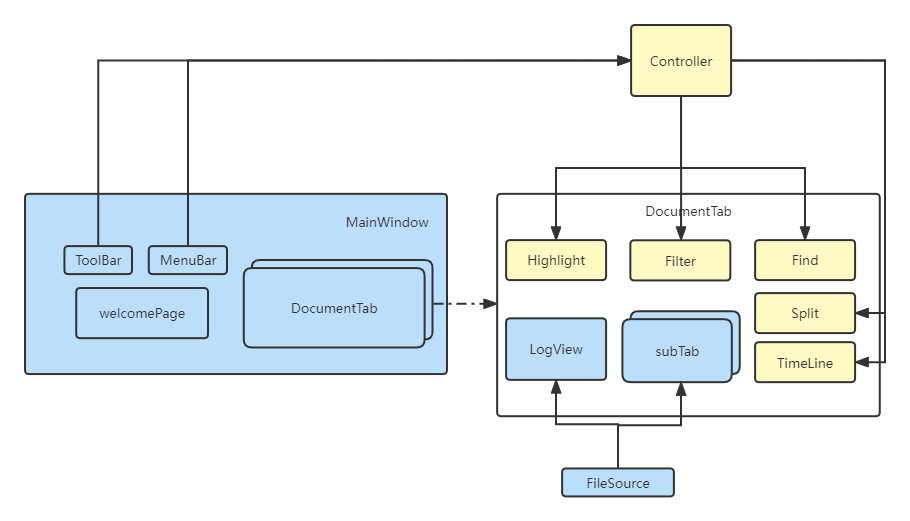
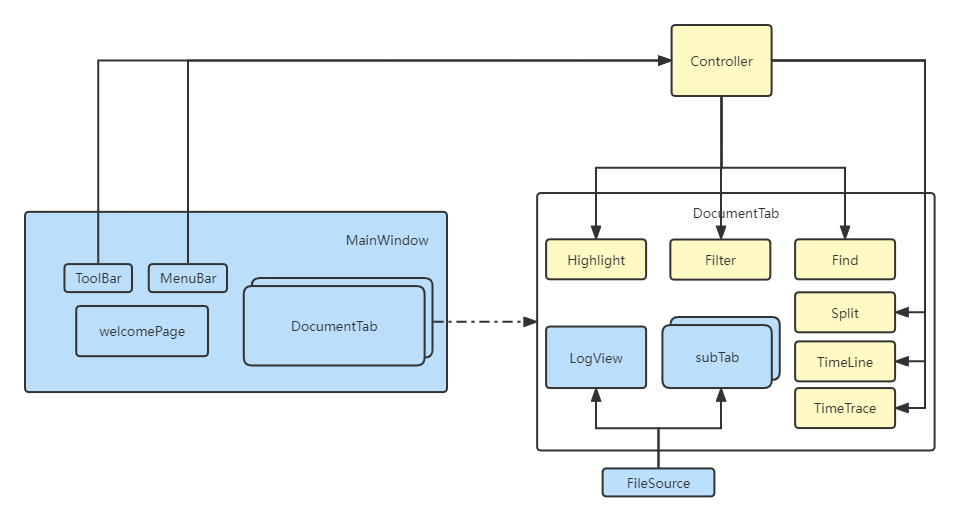
update slides

Changed region(s): [[0.0, 0.0307, 0.9846, 0.952]]

diff --git a/slides/slides.html b/slides/slides.html
@@ -68,6 +68,14 @@
     <h1>功能简介</h1>
 
   </section>
+  <section id="背景" class="slide level2">
+    <h2>任务背景</h2>
+
+    <ul>
+      <p>目前在排查问题时，由于多线程下业务繁多，从而在定位问题时，很难跟进上下文。尽管业务已有traceId,但是串联起来还是比较耗时。因而需要约定日志打印方式，以及实现相应的日志查看工具。</p>
+     <img width="600px" style="padding-left: 150px;" src="image/slides/log.png">
+    </ul>
+  </section> 
   <section id="界面布局" class="slide level2">
     <h2>界面布局</h2>
     <ul>
@@ -166,6 +174,22 @@
       </li>
       <li>导出当前时间线</li>
     </ul>
+  </section>
+  <section id="时间线功能拓展" class="slide level2">
+    <h2>时间线分析拓展</h2>
+    <ul>
+      <li>基于单时间线分析,实现多时间线追踪功能</li>
+      <ul>
+        <li>更广泛的适用性: 多线程日志分析</li>
+        <li>保留了单时间线的高亮动画,删除定位行功能</li>
+        <li>与过滤功能共同使用,事半功倍</li>
+      </ul>
+     
+    </ul>
+    <table>
+      <td><img width="500px" src="image/slides/trace1.png"></td>
+      <td><img width="400px"src="image/slides/trace2.png"></td>
+    </table>
   </section>
   <section id="番外功能" class="slide level2">
     <h2>番外功能</h2>
@@ -636,8 +660,9 @@ int ILog::createChild(SearchArg arg, QString id)
         <ul>
           <li><strong>TimeHead</strong>用来显示节点位置及时间信息</li>
           <li><strong>TimeBody</strong>用来显示TimeNode的日志内容</li>
-          <img width="600px" src="image/slides/timeline1.png">
+          <img width="400px" src="image/slides/timeline1.png" style="margin-bottom: 0px;">
         </ul>
+      <li>TimeTrace = List&lt;string&gt; + List&lt;timeline&gt;</li>
     </ul>
 
   </section>
@@ -678,7 +703,8 @@ void DocumentTab::deepEmphasizeLine(const shared_ptr<ILog> &log, int line, const
 
       </script></code></pre>  
     
-    </section>
+
+  </section>
   <section id="其他子模块" class="slide level2">
     <h2>其他子模块</h2>
     <ul>
@@ -697,16 +723,44 @@ void DocumentTab::deepEmphasizeLine(const shared_ptr<ILog> &log, int line, const
 </section>
 <section>
   <section id="实习感想" class="title-slide slide level1">
-    <h1>实习感想</h1>
+    <h1>实习总结</h1>
 
   </section>
-  <section id="实习感想-1" class="slide level2">
-    <h2>实习感想</h2>
+  <section id="实习总结" class="slide level2">
+    <h2>实习总结</h2>
+    <hr>
     <ul>
-      <li>Qt</li>
-      <li>实践</li>
+      <li>基本完成了既定的实习任务</li>
+      <li>在既定实习任务的基础上,加入了自己的想法</li>
+      <li>受限于能力和精力,一些功能尚未完善</li>
     </ul>
   </section>
+  <section id="实习感想1" class="slide level2">
+      <h2>实习感想</h2>
+      <hr>
+      <ul>
+        <li>Qt</li>
+        <ul>
+          <li>从零开始,在实践中学习熟悉了Qt框架</li>
+          <li>完整的经历了一次GUI程序的实现，不再惧怕界面开发</li>
+        </ul>
+        <hr>
+        <li>实践</li>
+        <ul>
+          <li>mmap,map/reduce等不再是PPT上考点,而是实际的代码</li>
+          <li>在实践中不断接触学习新的东西</li>
+        </ul>
+        <hr>
+        <p>同时,也很感谢公司提供这次实习机会</p>
+      </ul>
+    </section>  
+    <section id="thank" class="slide level2">
+      <h1>
+      <span>Thanks For Watch!</span>
+      </h1>
+      <hr>
+      <p style="text-align: center;">And <strong>Q&A</strong></p>
+    </section>
 </section>
 
     </div>
